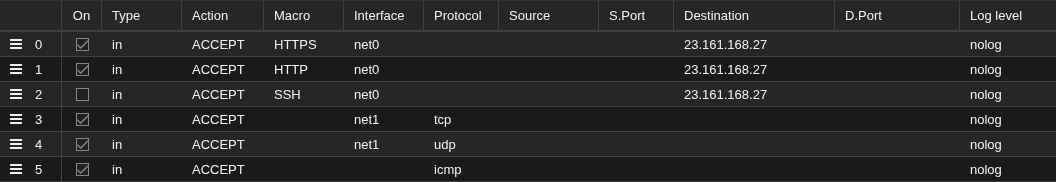
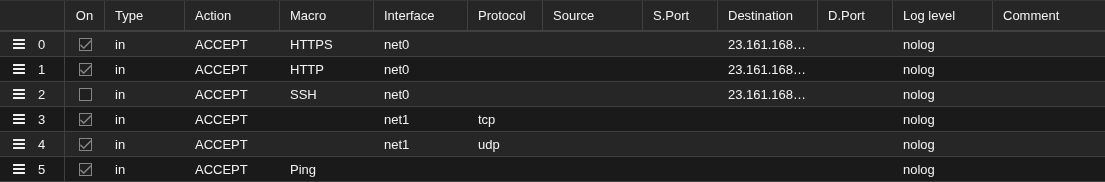
Use Ping macro instead of icmp protocol

diff --git a/README.md b/README.md
@@ -34,7 +34,7 @@ Create OPNsense VM as usual, note that:
 
 ![Proxmox firewall](Proxmox-Firewall.png)
 
-**Note**: These firewall rules will stop VMs behind OPNsense from *initiating* any non TCP, UDP, and ICMP connections.
+**Note**: These firewall rules will stop VMs behind OPNsense from *initiating* any non TCP, UDP, and Ping connections.
 
 - VM Firewall -> Options
     - Enable Firewall, Router Advertisement, and IP filter
